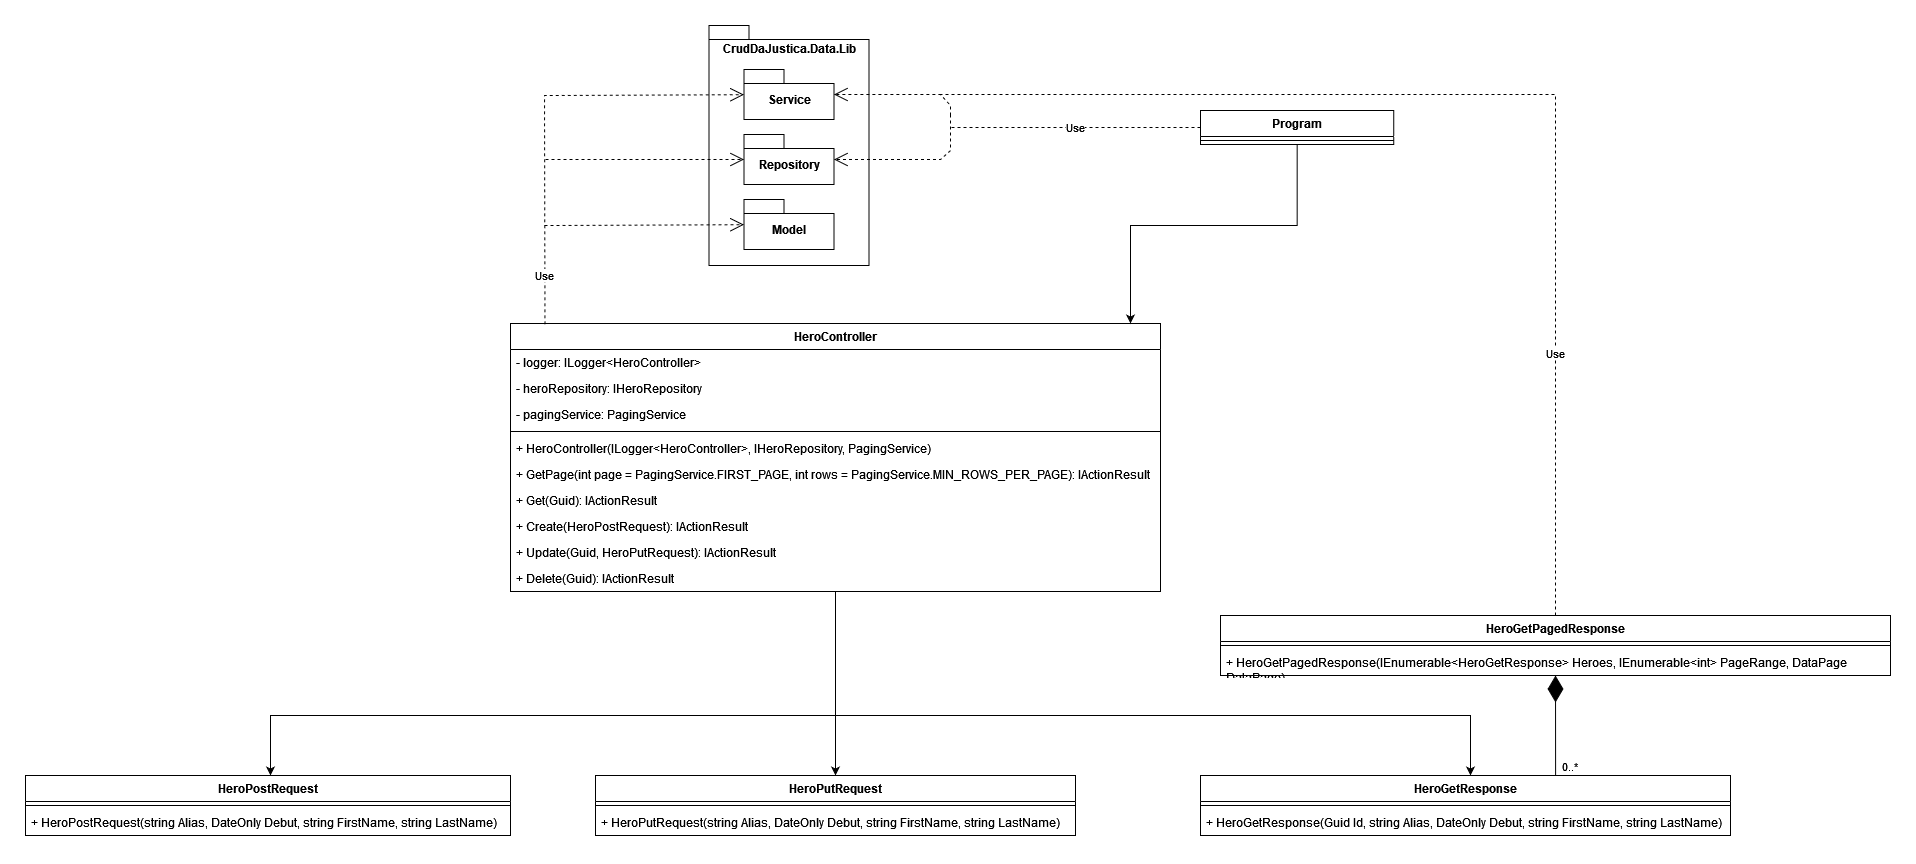
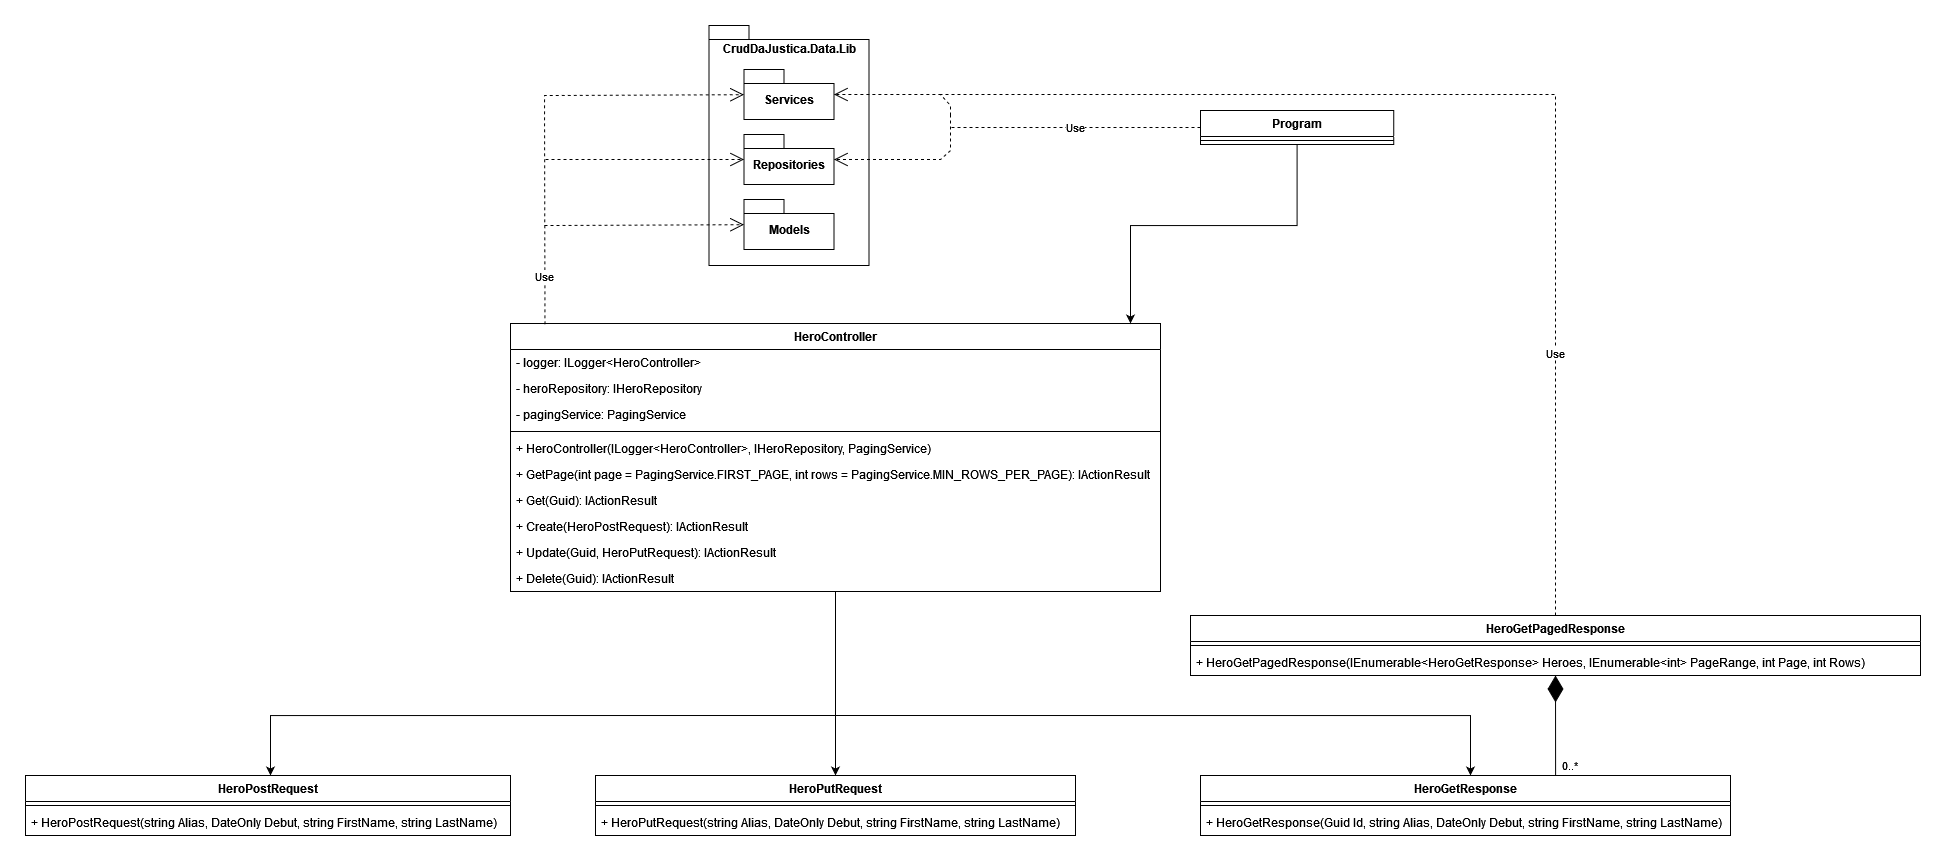
Pluralize todos os namespaces

diff --git a/src/CrudDaJustica.Website/Controllers/HeroController.cs b/src/CrudDaJustica.Website/Controllers/HeroController.cs
@@ -1,5 +1,4 @@
-using CrudDaJustica.Data.Lib.Service;
-using CrudDaJustica.Website.Models;
+using CrudDaJustica.Website.Models;
 using Microsoft.AspNetCore.Mvc;
 using System.Diagnostics;
 
@@ -28,18 +27,18 @@ public class HeroController : Controller
     /// Lists all heroes in a given data page.
     /// </summary>
     /// <returns> A view containing a list of heroes. </returns>
-    public async Task<IActionResult> Index(int page = PagingService.FIRST_PAGE, int rows = PagingService.MIN_ROWS_PER_PAGE)
+    public async Task<IActionResult> Index(int page = 1, int rows = 10)
     {
         logger.LogInformation("{timestamp}: displaying a list of heroes", DateTime.Now);
         var httpClient = httpClientFactory.CreateClient("HeroApi");
 
-        (var heroes, var pageRange, var dataPage) = await httpClient.GetFromJsonAsync<HeroGetPagedResponse>($"?page={page}&rows={rows}");
+        (var heroes, var pageRange, var validPage, var validRows) = await httpClient.GetFromJsonAsync<HeroGetPagedResponse>($"?page={page}&rows={rows}");
 
-        var heroListModel = new HeroListModel(heroes, pageRange, dataPage.Number);
+        var heroListModel = new HeroListModel(heroes, pageRange, validPage);
 
         // Used to display this page when another view redirects to here.
-        TempData["Rows"] = dataPage.Rows;
-        TempData["Page"] = dataPage.Number;
+        TempData["Rows"] = validRows;
+        TempData["Page"] = validPage;
 
         return View(heroListModel);
     }

diff --git a/src/CrudDaJustica.Cli.App/Views/CLI.cs b/src/CrudDaJustica.Cli.App/Views/CLI.cs
@@ -1,9 +1,9 @@
-using CrudDaJustica.Cli.App.Controller;
-using CrudDaJustica.Cli.App.Model;
-using CrudDaJustica.Cli.Lib.Decoration;
-using CrudDaJustica.Cli.Lib.Window;
+using CrudDaJustica.Cli.App.Controllers;
+using CrudDaJustica.Cli.App.Models;
+using CrudDaJustica.Cli.Lib.Decorations;
+using CrudDaJustica.Cli.Lib.Windows;
 
-namespace CrudDaJustica.Cli.App.View;
+namespace CrudDaJustica.Cli.App.Views;
 
 /// <summary>
 /// Represents a command-line interface used to interact with this system.
@@ -22,7 +22,7 @@ public class CLI
     private readonly Form<HeroFormModel> heroUpdateForm;
 
     // Summary: The hero currently selected in the heroListing.
-    private HeroViewModel CurrentlySelectedHero => Enumerable.ElementAt(heroListing.Elements, heroListing.CurrentlySelectedElement);
+    private HeroViewModel CurrentlySelectedHero => heroListing.Elements.ElementAt(heroListing.CurrentlySelectedElement);
 
     /// <summary>
     /// Initializes a new instance of the <see cref="CLI"/> class.

diff --git a/src/CrudDaJustica.WebApi/Models/HeroGetPagedResponse.cs b/src/CrudDaJustica.WebApi/Models/HeroGetPagedResponse.cs
@@ -1,11 +1,10 @@
-using CrudDaJustica.Data.Lib.Service;
-
-namespace CrudDaJustica.WebApi.Models;
+namespace CrudDaJustica.WebApi.Models;
 
 /// <summary>
 /// Initializes a new instance of the <see cref="HeroGetPagedResponse"/> record.
 /// </summary>
 /// <param name="Heroes"> A collection of hero information. </param>
 /// <param name="PageRange"> A range of integers that represent all pages in a hero repository. </param>
-/// <param name="DataPage"> The data page where the <paramref name="Heroes"/> are registered. </param>
-public record HeroGetPagedResponse(IEnumerable<HeroGetResponse> Heroes, IEnumerable<int> PageRange, DataPage DataPage);
+/// <param name="Page"> The page where the <see cref="Heroes"/> are registered. </param>
+/// <param name="Rows"> The amount of <see cref="Heroes"/> registered in the <see cref="Page"/>. </param>
+public record HeroGetPagedResponse(IEnumerable<HeroGetResponse> Heroes, IEnumerable<int> PageRange, int Page, int Rows);

diff --git a/src/CrudDaJustica.Website/Models/HeroGetPagedResponse.cs b/src/CrudDaJustica.Website/Models/HeroGetPagedResponse.cs
@@ -1,11 +1,10 @@
-using CrudDaJustica.Data.Lib.Service;
-
-namespace CrudDaJustica.Website.Models;
+namespace CrudDaJustica.Website.Models;
 
 /// <summary>
 /// Initializes a new instance of the <see cref="HeroGetPagedResponse"/> record.
 /// </summary>
 /// <param name="Heroes"> A collection of hero information. </param>
 /// <param name="PageRange"> A range of integers that represent all pages in a hero repository. </param>
-/// <param name="DataPage"> The data page where the <paramref name="Heroes"/> are registered. </param>
-public record HeroGetPagedResponse(IEnumerable<HeroViewModel> Heroes, IEnumerable<int> PageRange, DataPage DataPage);
+/// <param name="Page"> The page where the <see cref="Heroes"/> are registered. </param>
+/// <param name="Rows"> The amount of <see cref="Heroes"/> registered in the <see cref="Page"/>. </param>
+public record HeroGetPagedResponse(IEnumerable<HeroViewModel> Heroes, IEnumerable<int> PageRange, int Page, int Rows);

diff --git a/src/CrudDaJustica.Data.Lib/Services/PagingService.cs b/src/CrudDaJustica.Data.Lib/Services/PagingService.cs
@@ -1,6 +1,6 @@
-using CrudDaJustica.Data.Lib.Repository;
+using CrudDaJustica.Data.Lib.Repositories;
 
-namespace CrudDaJustica.Data.Lib.Service;
+namespace CrudDaJustica.Data.Lib.Services;
 
 /// <summary>
 /// Represents a service that does data paging in a repository.
@@ -54,10 +54,10 @@ public class PagingService
     }
 
     /// <summary>
-    /// Gets the <see cref="CurrentPage"/> and the <see cref="RowsPerPage"/> as a <see cref="Service.DataPage"/>.
+    /// Gets the <see cref="CurrentPage"/> and the <see cref="RowsPerPage"/> as a <see cref="Services.DataPage"/>.
     /// </summary>
     /// <returns>
-    /// A <see cref="Service.DataPage"/> that can be used to retrieve data from the repository.
+    /// A <see cref="Services.DataPage"/> that can be used to retrieve data from the repository.
     /// </returns>
     public DataPage DataPage => new(CurrentPage, RowsPerPage);
 

diff --git a/src/CrudDaJustica.WebApi/Controllers/HeroController.cs b/src/CrudDaJustica.WebApi/Controllers/HeroController.cs
@@ -1,6 +1,6 @@
-using CrudDaJustica.Data.Lib.Model;
-using CrudDaJustica.Data.Lib.Repository;
-using CrudDaJustica.Data.Lib.Service;
+using CrudDaJustica.Data.Lib.Models;
+using CrudDaJustica.Data.Lib.Repositories;
+using CrudDaJustica.Data.Lib.Services;
 using CrudDaJustica.WebApi.Models;
 using Microsoft.AspNetCore.Mvc;
 
@@ -52,7 +52,7 @@ public class HeroController : ControllerBase
             .GetHeroes(dataPage)
             .Select(he => new HeroGetResponse(he.Id, he.Alias, he.Debut, he.FirstName, he.LastName));
 
-        return Ok(new HeroGetPagedResponse(heroes, pagingService.PageRange, dataPage));
+        return Ok(new HeroGetPagedResponse(heroes, pagingService.PageRange, dataPage.Number, dataPage.Rows));
     }
 
     /// <summary>

diff --git a/src/CrudDaJustica.Cli.App/Program.cs b/src/CrudDaJustica.Cli.App/Program.cs
@@ -1,7 +1,7 @@
-using CrudDaJustica.Cli.App.Controller;
-using CrudDaJustica.Cli.App.View;
-using CrudDaJustica.Data.Lib.Repository;
-using CrudDaJustica.Data.Lib.Service;
+using CrudDaJustica.Cli.App.Controllers;
+using CrudDaJustica.Cli.App.Views;
+using CrudDaJustica.Data.Lib.Repositories;
+using CrudDaJustica.Data.Lib.Services;
 
 var sqlServerUsername = Environment.GetEnvironmentVariable("MJVSCHOOLDB_USERNAME");
 var sqlServerPassword = Environment.GetEnvironmentVariable("MJVSCHOOLDB_PASSWORD");

diff --git a/src/CrudDaJustica.Cli.App/Controllers/HeroController.cs b/src/CrudDaJustica.Cli.App/Controllers/HeroController.cs
@@ -1,9 +1,9 @@
-using CrudDaJustica.Cli.App.Model;
-using CrudDaJustica.Data.Lib.Repository;
-using CrudDaJustica.Data.Lib.Service;
+using CrudDaJustica.Cli.App.Models;
+using CrudDaJustica.Data.Lib.Repositories;
+using CrudDaJustica.Data.Lib.Services;
 using System.Globalization;
 
-namespace CrudDaJustica.Cli.App.Controller;
+namespace CrudDaJustica.Cli.App.Controllers;
 
 /// <summary>
 /// Represents a controller that manages communication between the hero repository and the user interface.

diff --git a/src/CrudDaJustica.Data.Lib/Repositories/SqlServerRepository.cs b/src/CrudDaJustica.Data.Lib/Repositories/SqlServerRepository.cs
@@ -1,9 +1,9 @@
-using CrudDaJustica.Data.Lib.Model;
-using CrudDaJustica.Data.Lib.Service;
+using CrudDaJustica.Data.Lib.Models;
+using CrudDaJustica.Data.Lib.Services;
 using Microsoft.Data.SqlClient;
 using System.Data;
 
-namespace CrudDaJustica.Data.Lib.Repository;
+namespace CrudDaJustica.Data.Lib.Repositories;
 
 /// <summary>
 /// Represents a SQL Server database that stores information about heroes.

diff --git a/src/CrudDaJustica.Data.Lib/Repositories/JsonRepository.cs b/src/CrudDaJustica.Data.Lib/Repositories/JsonRepository.cs
@@ -1,8 +1,8 @@
-using CrudDaJustica.Data.Lib.Model;
-using CrudDaJustica.Data.Lib.Service;
+using CrudDaJustica.Data.Lib.Models;
+using CrudDaJustica.Data.Lib.Services;
 using System.Text.Json;
 
-namespace CrudDaJustica.Data.Lib.Repository;
+namespace CrudDaJustica.Data.Lib.Repositories;
 
 /// <summary>
 /// Represents a repository that stores information in a JSON file.

diff --git a/src/CrudDaJustica.Data.Lib/Repositories/IHeroRepository.cs b/src/CrudDaJustica.Data.Lib/Repositories/IHeroRepository.cs
@@ -1,7 +1,7 @@
-using CrudDaJustica.Data.Lib.Model;
-using CrudDaJustica.Data.Lib.Service;
+using CrudDaJustica.Data.Lib.Models;
+using CrudDaJustica.Data.Lib.Services;
 
-namespace CrudDaJustica.Data.Lib.Repository;
+namespace CrudDaJustica.Data.Lib.Repositories;
 
 /// <summary>
 /// Represents a repository that stores information about heroes.

diff --git a/src/CrudDaJustica.Data.Lib/Repositories/VirtualRepository.cs b/src/CrudDaJustica.Data.Lib/Repositories/VirtualRepository.cs
@@ -1,7 +1,7 @@
-using CrudDaJustica.Data.Lib.Model;
-using CrudDaJustica.Data.Lib.Service;
+using CrudDaJustica.Data.Lib.Models;
+using CrudDaJustica.Data.Lib.Services;
 
-namespace CrudDaJustica.Data.Lib.Repository;
+namespace CrudDaJustica.Data.Lib.Repositories;
 
 /// <summary>
 /// Represents a repository that stores data in memory.
